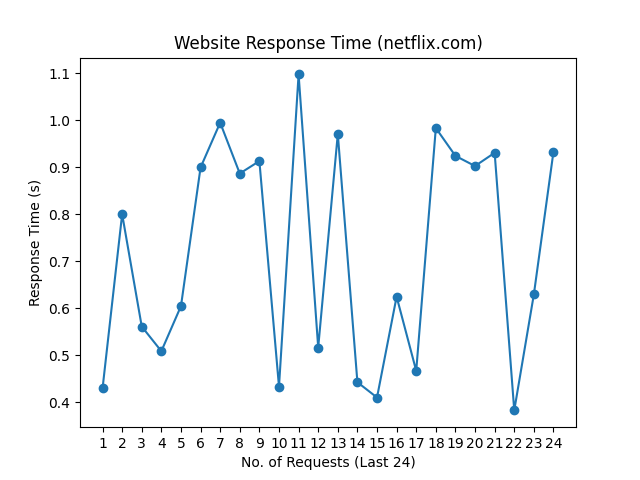
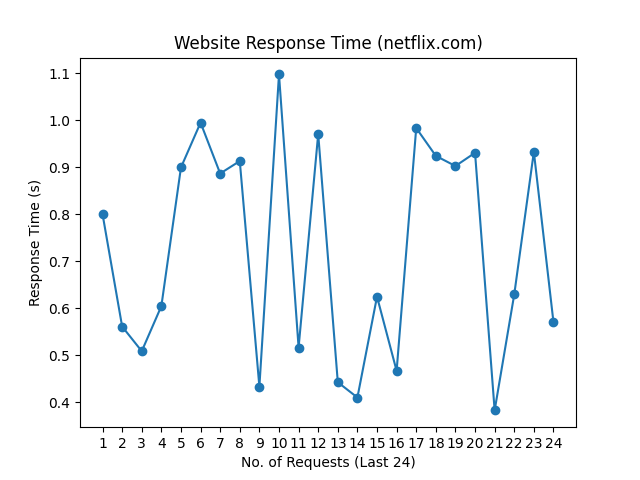
update README.md, history and graph

Changed region(s): [[0.1562, 0.125, 0.875, 0.875]]

diff --git a/README.md b/README.md
@@ -1,10 +1,10 @@
 # Web Monitoring
 
-Last Checked: 22/07/2024 08:18
+Last Checked: 23/07/2024 08:17
 
 | Website | Response Time (s) | Status | Avg Uptime (%) |
 |---------|-------------------|--------|----------------|
 | www.thiswebsiteisdown.net | 0 <br> <img src="graph/thiswebsiteisdown.net.png" alt="Graph" width="200" height="200">  | ❌ Down | 0.00 |
-| www.netflix.com | 0.932938 <br> <img src="graph/netflix.com.png" alt="Graph" width="200" height="200">  | ✅ Up | 100.00 |
-| www.google.com | 0.074196 <br> <img src="graph/google.com.png" alt="Graph" width="200" height="200">  | ✅ Up | 100.00 |
-| www.facebook.com | 0.624485 <br> <img src="graph/facebook.com.png" alt="Graph" width="200" height="200">  | ✅ Up | 100.00 |
+| www.netflix.com | 0.570618 <br> <img src="graph/netflix.com.png" alt="Graph" width="200" height="200">  | ✅ Up | 100.00 |
+| www.google.com | 0.246809 <br> <img src="graph/google.com.png" alt="Graph" width="200" height="200">  | ✅ Up | 100.00 |
+| www.facebook.com | 0.529815 <br> <img src="graph/facebook.com.png" alt="Graph" width="200" height="200">  | ✅ Up | 100.00 |
